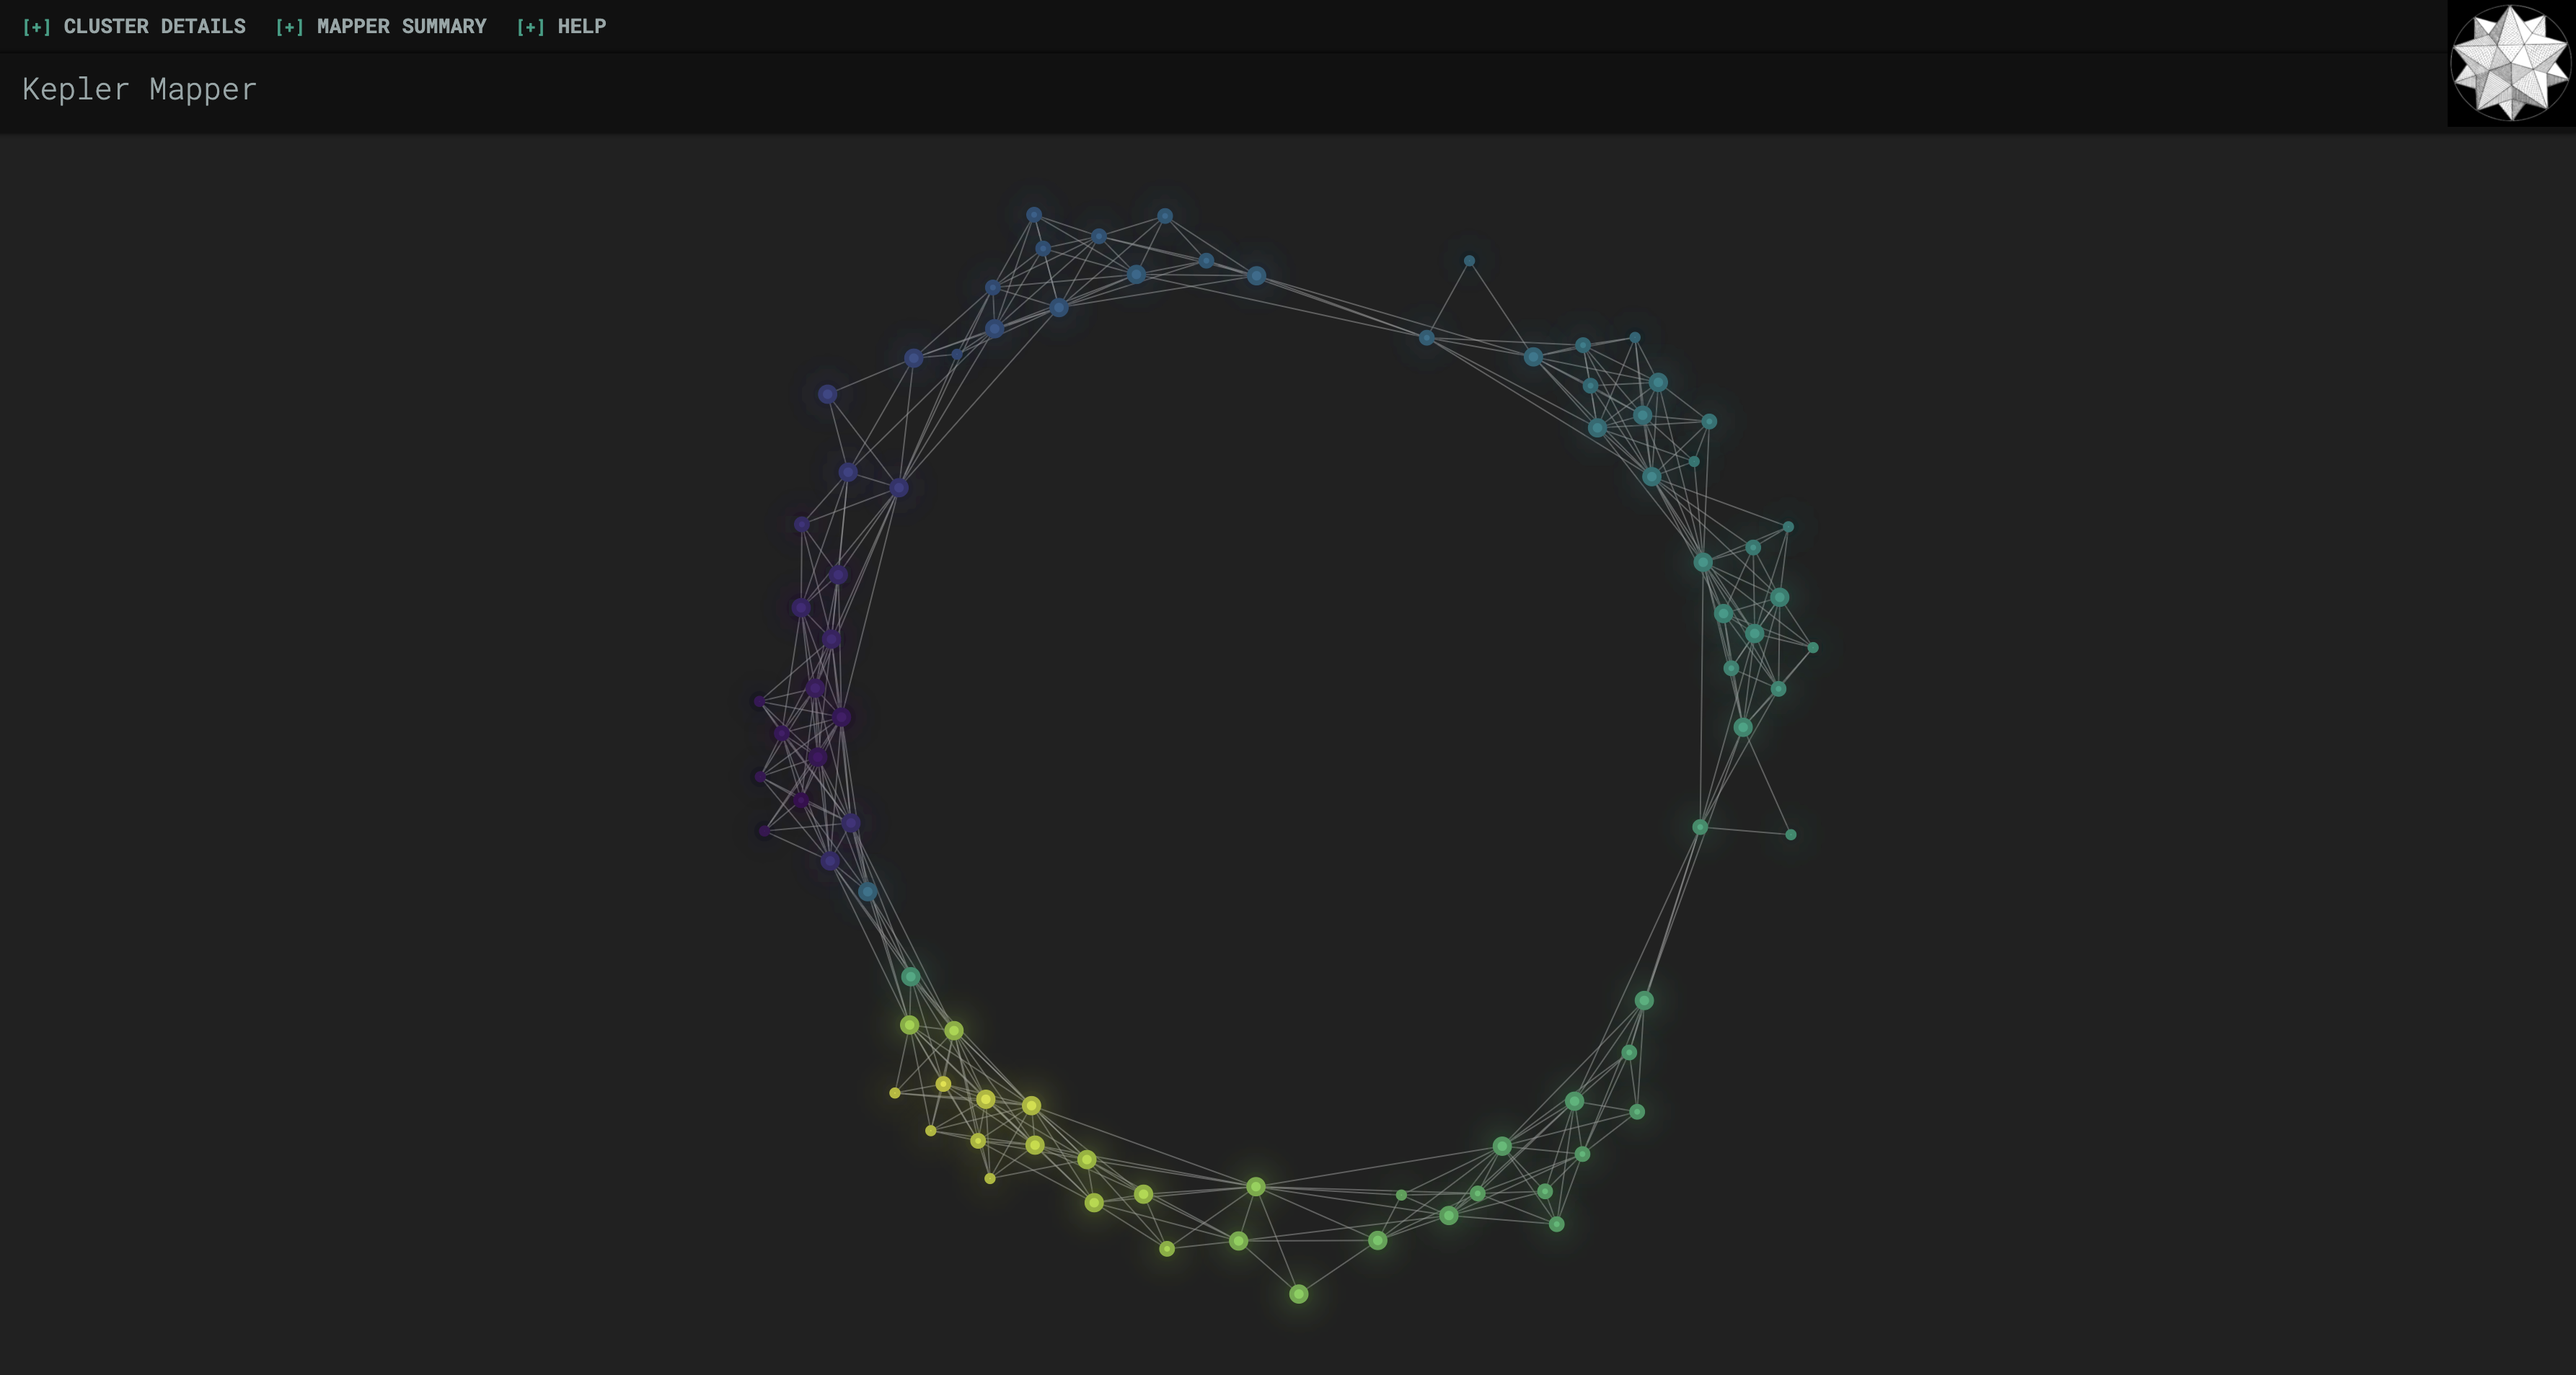
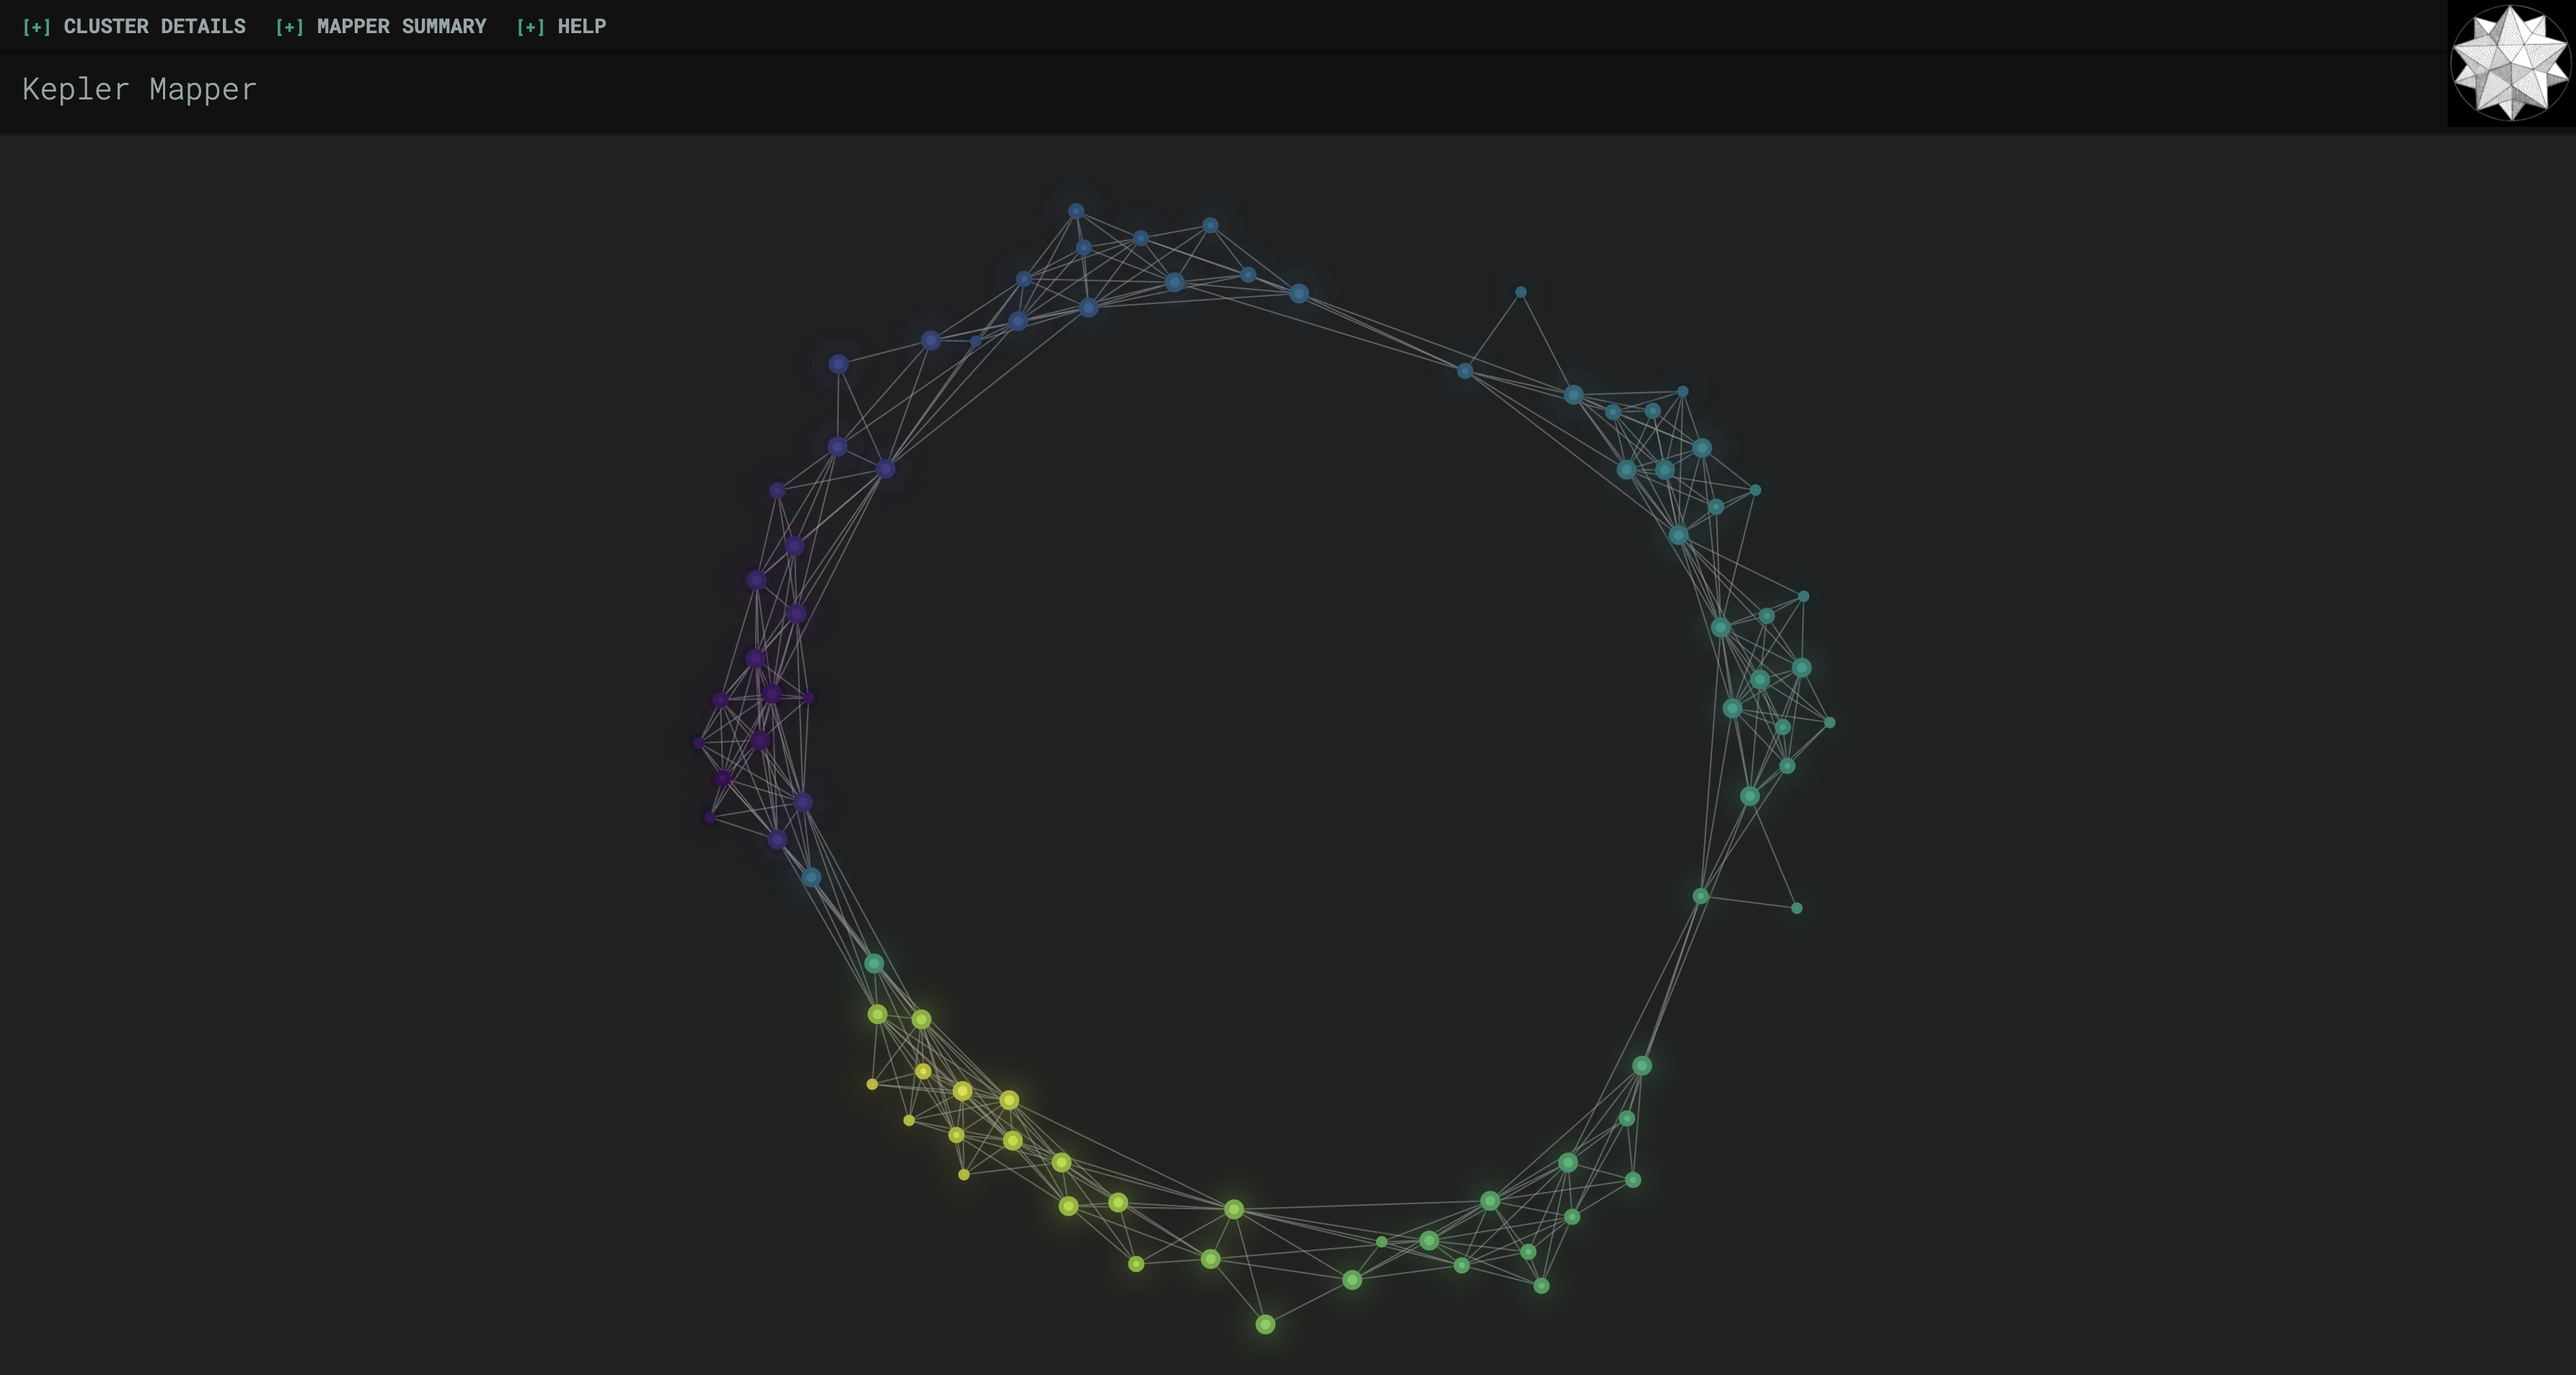
update readme and example outputs

Changed region(s): [[0.2797, 0.1546, 0.6526, 0.9586], [0.5594, 0.2474, 0.7147, 0.6803]]

diff --git a/README.md b/README.md
@@ -76,13 +76,10 @@ from sklearn.cluster import AgglomerativeClustering
 # setup KeplerMapper object
 mapper = KeplerMapper(verbose=1)
 
-# create low dimensional lens 
-lens = mapper.fit_transform(X, projection=[0,1])
-
 # run KeplerMapper using the LandmarkCover
 graph = mapper.map(
-    lens=lens, X=X,
-    cover=LandmarkCover(n_landmarks=30, perc_overlap=0.33),
+    lens=X, X=X,
+    cover=LandmarkCover(n_landmarks=30, perc_overlap=0.35, metric='euclidean'),
     clusterer=AgglomerativeClustering(n_clusters=3, linkage='single'),
     remove_duplicate_nodes=True,
 )
@@ -91,6 +88,12 @@ graph = mapper.map(
 html = mapper.visualize(graph, path_html=f'kmapper_landmark_cover.html')
 
 ```
+
+<p align="center">
+<a href="https://github.com/calebgeniesse/landmark_cover/tree/main/examples/trefoil_knot/">
+<img src="https://github.com/calebgeniesse/landmark_cover/blob/main/examples/trefoil_knot/kmapper_landmark_cover.png?raw=true">
+</a>
+</p>
 
 
 
@@ -131,7 +134,7 @@ mapper = KeplerMapper(verbose=1)
 # run KeplerMapper using the LandmarkCover
 graph = mapper.map(
     lens=geodesic_distances, X=X,
-    cover=LandmarkCover(n_landmarks=30, perc_overlap=0.33),
+    cover=LandmarkCover(n_landmarks=30, perc_overlap=0.35, metric='precomputed'),
     clusterer=AgglomerativeClustering(n_clusters=3, linkage='single'),
     remove_duplicate_nodes=True,
 )
@@ -140,6 +143,14 @@ graph = mapper.map(
 html = mapper.visualize(graph, path_html=f'kmapper_landmark_cover_geodesic_lens.html')
 
 ```
+
+<p align="center">
+<a href="https://github.com/calebgeniesse/landmark_cover/tree/main/examples/trefoil_knot/">
+<img src="https://github.com/calebgeniesse/landmark_cover/blob/main/examples/trefoil_knot/kmapper_landmark_cover_geodesic_lens.png?raw=true">
+</a>
+</p>
+
+
 
 
 
@@ -165,8 +176,8 @@ lens = mapper.fit_transform(X, projection=[0,1])
 # run KeplerMapper using the CubicalCover
 graph = mapper.map(
     lens=lens, X=X,
-    cover=CubicalCover(n_cubes=8, perc_overlap=0.33),
-    clusterer=AgglomerativeClustering(n_clusters=3, linkage='single'),
+    cover=CubicalCover(n_cubes=8, perc_overlap=0.67),
+    clusterer=AgglomerativeClustering(n_clusters=2, linkage='single'),
     remove_duplicate_nodes=True,
 )
 
@@ -203,7 +214,7 @@ geodesic_distances = r_isomap._reciprocal_distances(X).toarray()
 # run KeplerMapper using the LandmarkCover
 graph = mapper.map(
     lens=geodesic_distances, X=X,
-    cover=LandmarkCover(n_landmarks=30, perc_overlap=0.33),
+    cover=LandmarkCover(n_landmarks=30, perc_overlap=0.35, metric='precomputed'),
     clusterer=AgglomerativeClustering(n_clusters=3, linkage='single'),
     remove_duplicate_nodes=True,
 )
